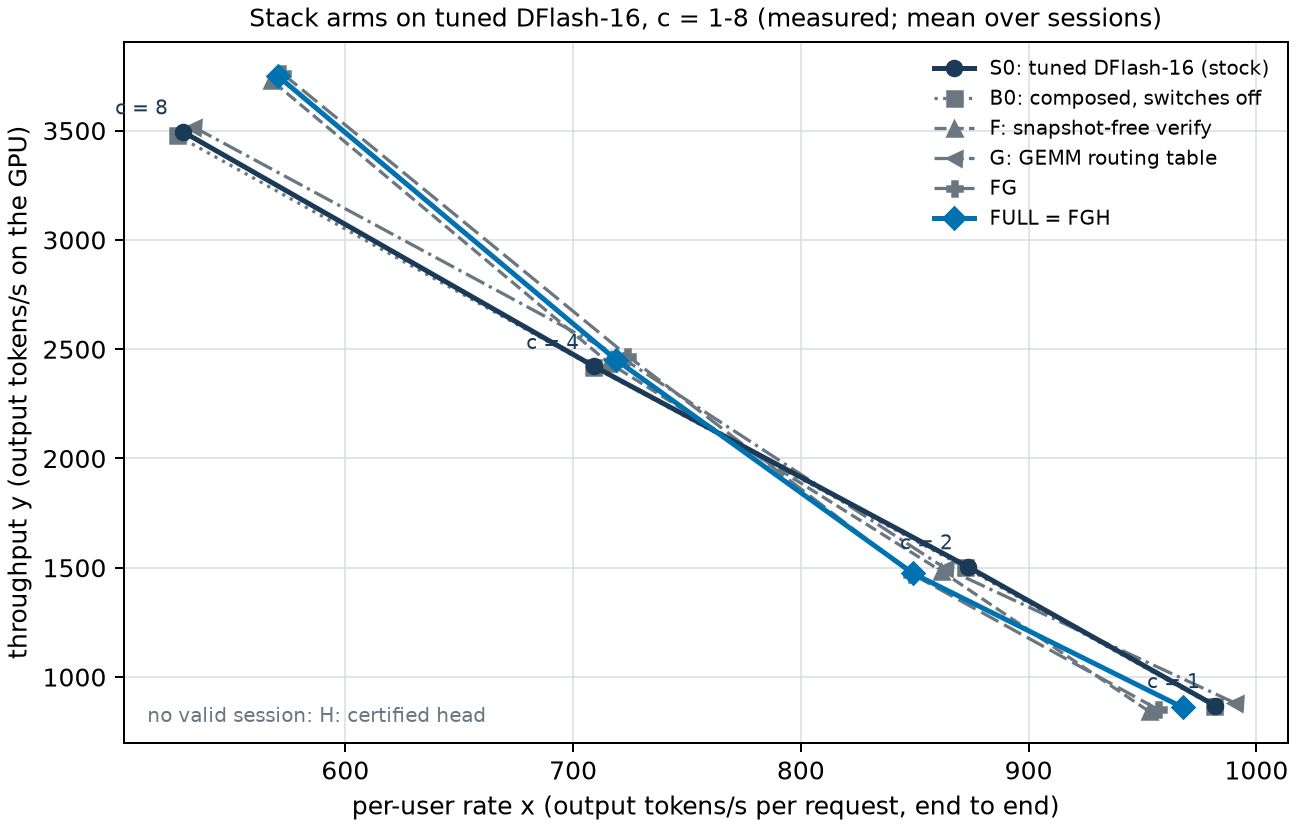
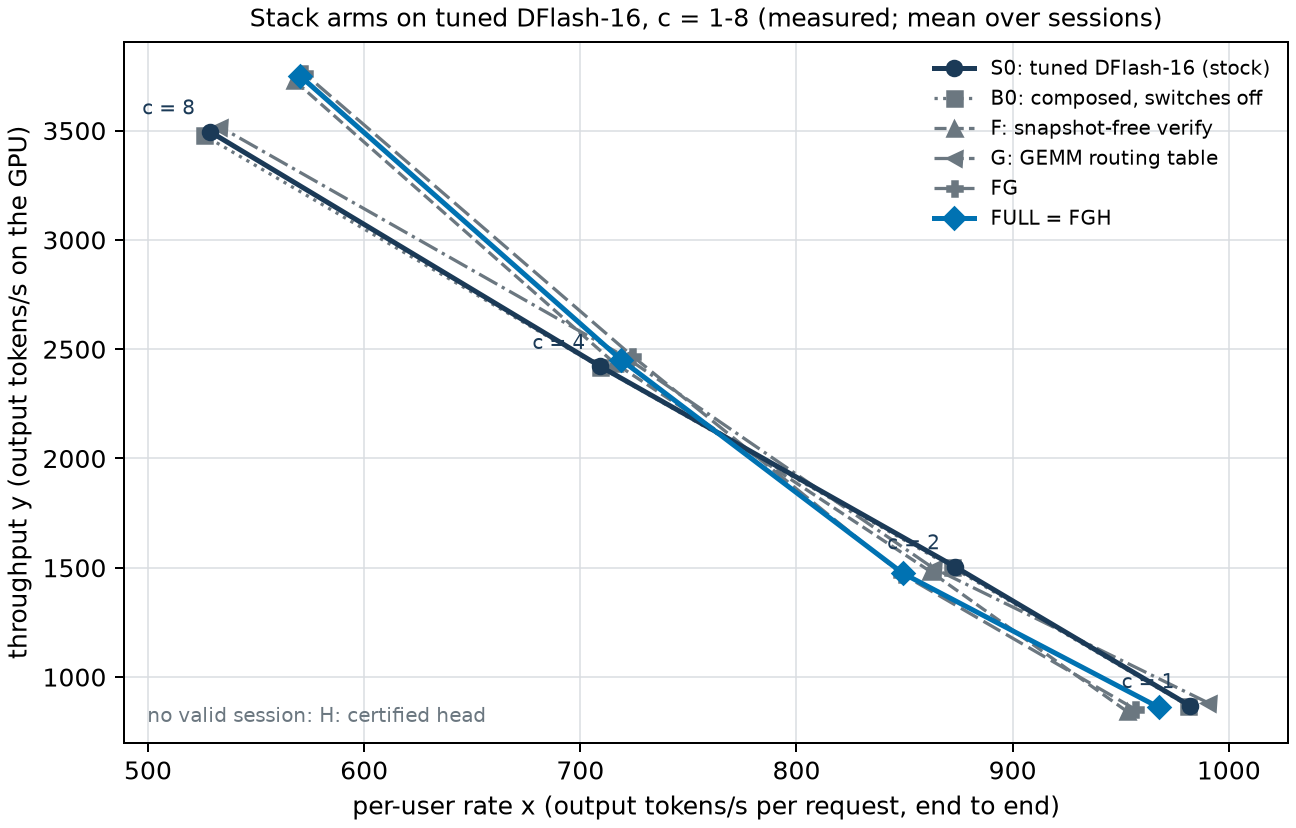
Stack evidence: refreshed from the analysis at 03:09:16 UTC (b011a9c): start-up call chains, figure labels; statistics byte-identical to the first run

diff --git a/evidence/stack/README.md b/evidence/stack/README.md
@@ -353,12 +353,15 @@ admitted at each c (`analyze.py`, `admitted_sessions`).
 
 ## Results
 
-Everything in this section is measured unless it says derived. The declared analysis ran
-once, at 2026-10-02 02:16:21 UTC, after the last session had ended and after amendment 2
+Everything in this section is measured unless it says derived. The analysis behind these
+files ran at 2026-10-02 03:09:16 UTC, after the last session had ended and after amendment 2
 (committed 2026-10-01 22:00:09 UTC), with `experiments/stack/analyze_campaign.sh` at
-repository commit `8687b45` (`analysis_run.json`, command lines in
-`analysis_commands.txt`). Two earlier runs of the same script, on s1-s2 only, tested the
-code; no number here comes from them.
+repository commit `b011a9c` (`analysis_run.json`, command lines in
+`analysis_commands.txt`). The first run of the declared analysis, at 02:16:21 UTC (commit
+`8687b45`, before the start-up table gained its call-chain column and two figure labels
+were fixed), produced byte-identical statistics: every ratio, interval, decision and
+diagnostic table is the same. Two earlier runs, on s1-s2 only, tested the code; no number
+here comes from them.
 
 ### What ran
 
@@ -601,8 +604,8 @@ FP16 state) need the declared quality budget and have not been measured on DFlas
 ## Files
 
 The analysis files are copies, unchanged, of the declared analysis's directory
-(`~/vp-data/stack/analysis/20261002T021621Z/`, outside git), written by one command at
-repository commit `8687b45`:
+(`~/vp-data/stack/analysis/20261002T030916Z/`, outside git), written by one command at
+repository commit `b011a9c`:
 
 ```sh
 experiments/stack/analyze_campaign.sh     # fresh ~/vp-data/stack/analysis/<UTC>/, command lines, HEAD
